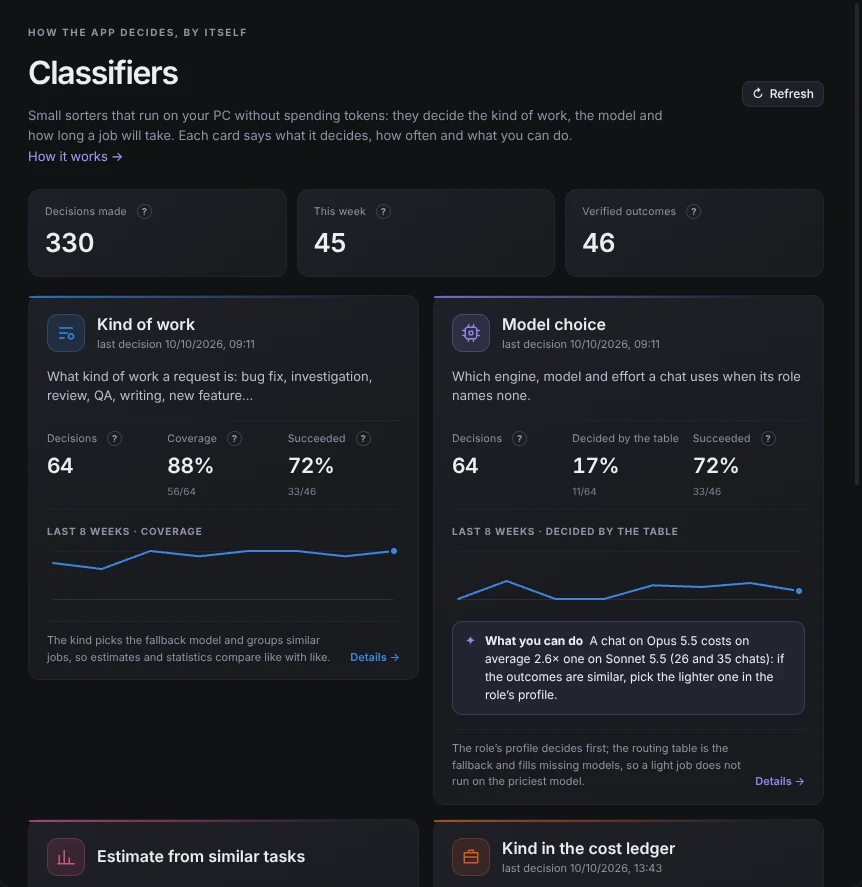
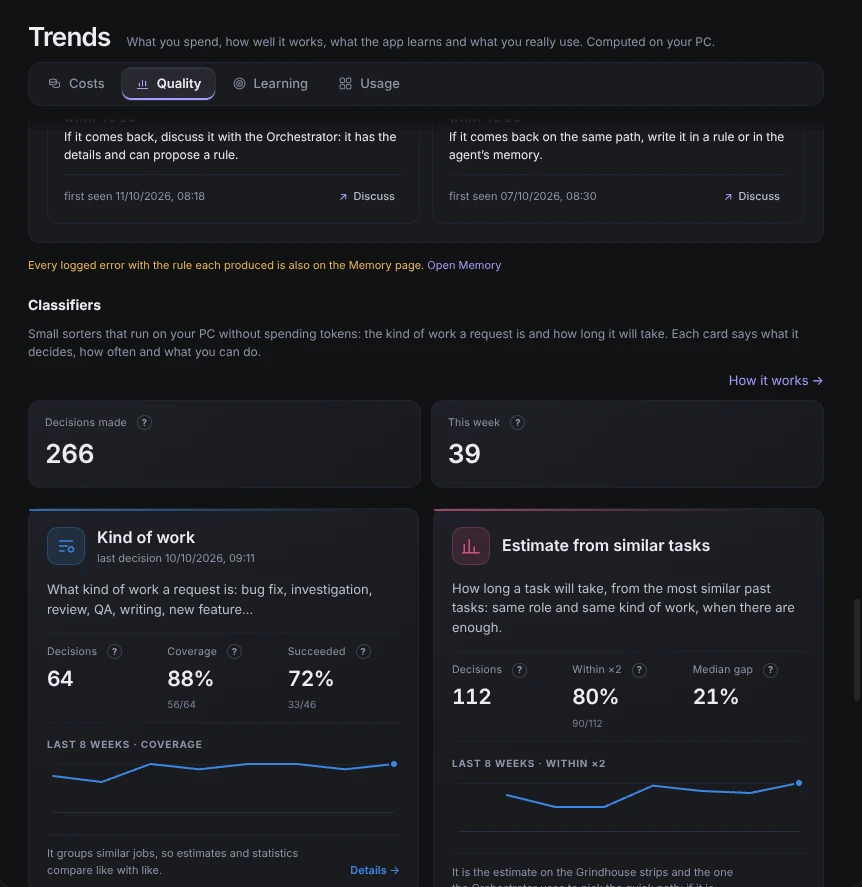
docs(readme): Trends, Settings, Learn v3 and Tasks, fresh screenshots, ADR index

diff --git a/test/shots/readme.spec.ts b/test/shots/readme.spec.ts
@@ -245,7 +245,7 @@ test('README showcase: Memoria, agent levels, Orchestrator and Flash, reactions'
   await page.keyboard.type('thanks!');
   await page.keyboard.press('Enter');
   const react = page.getByTestId('tile-orchestrator').locator('.msg-user .msg-react').last();
-  await expect(react).toHaveText('👍', { timeout: 15_000 });
+  await expect(react).toHaveText('🙏', { timeout: 15_000 });
   await page.waitForTimeout(500);
   // from the question before it (a written answer) down to the thanks with its reaction
   const users = page.getByTestId('tile-orchestrator').locator('.msg-user');
@@ -257,6 +257,9 @@ test('README showcase: Memoria, agent levels, Orchestrator and Flash, reactions'
 test('README screenshot: Connettori', async () => {
   // 8. Impostazioni → Connettori: the MCP servers the app gives the agents, as cards with state, tools and fixes (ADR 0086)
   await page.keyboard.press('Control+,');
+  // the Settings page as it opens: the sections on the left, search, the essentials first (ADR 0207)
+  await expect(page.getByTestId('settings-page')).toBeVisible({ timeout: 30_000 });
+  await save('settings');
   const hub = page.getByTestId('st-group-connectors').getByTestId('connectors-hub');
   await expect(hub.getByTestId('hub-server-github')).toBeVisible({ timeout: 30_000 });
   await hub.getByTestId('hub-servers').evaluate(el => el.scrollIntoView({ block: 'start' }));
@@ -286,7 +289,7 @@ test('README showcase: the Strategist\'s plan to approve in the questions window
   await save('plan', page.getByTestId('qwin'));
 });
 
-test('README showcase: voice, Log, recordings, classifiers, quality, learn, costs, the maintenance notice', async () => {
+test('README showcase: voice, Log, recordings, classifiers, quality, learn, costs, trends, the maintenance notice', async () => {
   test.setTimeout(180_000);
   // the plan's questions window is done: every request from here on is set aside, as a user busy elsewhere would
   await keepQuestionsAside(page);
@@ -349,7 +352,9 @@ test('README showcase: voice, Log, recordings, classifiers, quality, learn, cost
   await page.getByTestId('impara-lessons').locator('.ip-card').first().locator('.ip-card-open').click();
   await expect(page.getByTestId('impara-player')).toBeVisible({ timeout: 15_000 });
   await page.waitForTimeout(1500); // the diagram draws in
-  await save('learn', { ...column, height: 800 });
+  // the player as it is laid out now (the board, the piece and the Studio beside it), not the Log's column
+  const pb = (await page.getByTestId('impara-player').boundingBox())!;
+  await save('learn', { x: Math.round(pb.x), y: Math.round(pb.y), width: Math.round(pb.width), height: Math.round(Math.min(pb.height, H - pb.y)) });
 
   // Costs: where the money goes, from the recorded chats, no tokens spent to know it
   await goPage(page, 'costi');
@@ -357,6 +362,12 @@ test('README showcase: voice, Log, recordings, classifiers, quality, learn, cost
   await expect(costs).toBeVisible({ timeout: 30_000 });
   await expect(page.getByTestId('bx-loading')).toHaveCount(0, { timeout: 30_000 });
   await save('costs', await frameOf(costs));
+
+  // Trends › Usage: the local counter of the pages and actions really used, zero tokens (ADR 0202)
+  await page.getByTestId('an-tab-uso').click();
+  await expect(page.getByTestId('use-tab')).toBeVisible({ timeout: 30_000 });
+  await page.waitForTimeout(500);
+  await save('trends', await frameOf(page.getByTestId('use-tab')));
 
   // Maintenance: one click, then the celebrating notice over Memoria when it ends
   await page.getByTestId('nav-memoria').click();

diff --git a/src/main/demo.ts b/src/main/demo.ts
@@ -900,7 +900,9 @@ async function orchestratorReply(run: Run, text: string, d: DemoChats): Promise<
     return;
   }
   // a thanks or an ok needs no answer: one emoji, shown as a reaction (shared/reaction.ts)
-  if (/^(grazie|ok|perfetto|ottimo|thanks)\b[\s!.]*$/i.test(text.trim())) { await run.say('👍'); return; }
+  // a reaction that fits, not always 👍 (ADR 0209)
+  const thanks = /^(grazie|ok|perfetto|ottimo|thanks)\b[\s!.]*$/i.exec(text.trim());
+  if (thanks) { await run.say(/^(ok)$/i.test(thanks[1]!) ? '👌' : /^(perfetto|ottimo)$/i.test(thanks[1]!) ? '🎉' : '🙏'); return; }
   const all = d.list().filter(c => !c.isOrchestrator);
   const waiting = all.filter(c => c.state === 'waiting' || c.pending > 0).map(c => c.title);
   const working = all.filter(c => c.state === 'running' || c.state === 'starting').map(c => c.title);

diff --git a/README.md b/README.md
@@ -61,17 +61,20 @@ Herald) that split it into child chats you can watch and report back.
 
 The **Orchestrator** is where work starts: it plans, hands each job to the right role, answers their mail and tells you
 what is waiting. **Flash**, the tab next to it, is the "btw": a quick read-only agent on its own model that sees the
-Orchestrator's conversation and answers side questions in seconds, without touching it. When a question turns into
-real work, "Make it a job" drafts it for the Orchestrator.
+Orchestrator's conversation and answers side questions in seconds, without touching it. Use it to plan, research or
+ask for advice; when the talk turns into real work, "Make it a job" has Flash write a proper brief from the whole
+conversation (goal, context, what to do, constraints, done when) and drops it in the Orchestrator's input, unsent.
 
 <p align="center"><img src="docs/screenshots/orchestrator-flash.webp" alt="The Orchestrator's column with its subagents and a decision, and Flash beside it" width="760"></p>
 
 It also knows the app inside out. "Where is the spending limit?", "turn notifications off", "give the Scout the GitHub
-connector": it reads the app's live map and changes the setting for you, with an Undo. Secrets stay yours.
+connector", "add this MCP server": it reads the app's live map and changes the setting for you, with an Undo. Secrets
+stay yours, and a server it adds stays off until you read its command and click **Activate**.
 
 ### Plan mode
 
-Tick **Plan** and a Strategist takes the job: it asks you a few questions first, then proposes a short plan, each step
+Tick **Plan** and a Strategist takes the job: it reads the code, asks you at least three real questions (goal, scope,
+constraints, what "done" means; say "enough questions" to stop it), then proposes a short plan, each step
 with the role that will do it. You approve it in the questions window, and only then does it start the other agents,
 as the tree of thread cards at the top of this page, its steps ticking off on its strip.
 
@@ -81,14 +84,14 @@ as the tree of thread cards at the top of this page, its steps ticking off on it
 
 Everything the agents learn lands as a card: a fact, a skill, a rule, a setting. Swipe right to keep it, left to drop
 it (or ✓ / ✕, or the arrow keys, with Z to undo), and every card says who proposed it, in which chat and when. Behind
-the deck, one hub with tabs (Approved, Skills, Rules, Scripts & Queries, Ideas, Files, Learning, Statistics) under a
+the deck, one hub with tabs (Approved, Skills, Rules, Scripts & Queries, Ideas, Files, Statistics) under a
 header whose counters move while the agents work.
 
 <p align="center"><img src="docs/screenshots/memory.webp" alt="Memory: the live header with its counters, the tabs, and a proposal card swiped toward APPROVE" width="560"></p>
 
 ### Quality you can measure, a brain that tidies itself
 
-**Quality** counts the AI's mistakes instead of its compliments: errors you had to catch yourself per 100 turns, rules
+**Quality**, a tab of **Trends**, counts the AI's mistakes instead of its compliments: errors you had to catch yourself per 100 turns, rules
 that actually stopped their error (or didn't, within 14 days), PRs held by a failed build or QA, bugs that came back.
 Every number says where it comes from and how many cases it covers, and "Discuss" hands it to the Orchestrator.
 
@@ -105,16 +108,17 @@ bugs. When it found something you get a little party, and every change has a rea
 
 Every role earns its level from verified outcomes only, never from vibes: a delegated job counts when its parent's
 work checks out, and the Sentinel, the one who judges, is judged by what happens next. Each card shows the level and a
-performance %.
+performance %. Reviews are cheap: free signals first, then a sample of finished runs reviewed together in one quiet
+session on the first idle moment of the night (or after you turn the PC back on), never shown on the Grindhouse.
 
 <p align="center"><img src="docs/screenshots/agent-levels.webp" alt="Agent cards for the Orchestrator, the Artisan and the Sentinel, each with its level, verified successes and performance percentage" width="720"></p>
 
 ### Emoji instead of essays
 
-Say "thanks" and you get a 👍 on your message, not a paragraph of pleasantries. Any agent with nothing to add reacts
-instead of replying, on every engine, so those tokens go to work instead.
+Say "thanks" and you get a 🙏, a 🎉 or a 🫡 on your message (whatever fits), not a paragraph of pleasantries. Any agent
+with nothing to add reacts instead of replying, on every engine, so those tokens go to work instead.
 
-<p align="center"><img src="docs/screenshots/reactions.webp" alt="A thanks to the Orchestrator answered with a thumbs-up reaction under the message" width="520"></p>
+<p align="center"><img src="docs/screenshots/reactions.webp" alt="A thanks to the Orchestrator answered with a 🙏 reaction under the message" width="520"></p>
 
 ### Talk to it
 
@@ -156,28 +160,41 @@ Notes, chats, agents and tools as a 3D map you can spin, glowing along the links
 
 <p align="center"><img src="docs/screenshots/brain-map.webp" alt="The 3D brain map: notes, chats, agents and tools linked, the live ones glowing" width="640"></p>
 
+### Trends: the numbers in one place
+
+**Trends** puts the statistics on one page with tabs: **Costs** (where the money went, which chat's context is getting
+heavy), **Quality** (with the classifiers), **Learning** and **Usage**. Usage counts which pages and actions you really
+open, on your PC only, so deciding what to keep rests on numbers, not guesses.
+
+<p align="center"><img src="docs/screenshots/trends.webp" alt="Trends, the Usage tab: the pages and actions opened in the last 14 days, most used first" width="640"></p>
+
 ### Classifiers: small decisions, zero tokens
 
-Not everything needs a model. Small sorters on your PC decide the kind of work, the model a chat runs on, how long and
-how much a job will probably take, and which mail the Orchestrator reads now or later. The Classifiers page shows each
-one as a card: how many decisions, how often it got them right, how many of those chats succeeded (only verified ones
-count), the last 8 weeks, and what you could change.
+Not everything needs a model. Small sorters on your PC decide the kind of work, how long and how much a job will
+probably take, and which mail the Orchestrator reads now or later; the model itself is simply the one on the agent's
+card. The Classifiers section of Quality shows each sorter as a card: how many decisions, how often it got them right,
+how many of those chats succeeded (only verified ones count), the last 8 weeks, and what you could change.
 
-<p align="center"><img src="docs/screenshots/classifiers.webp" alt="The Classifiers page: decisions made, verified outcomes, and the Kind of work and Model choice cards with their 8-week trend" width="640"></p>
+<p align="center"><img src="docs/screenshots/classifiers.webp" alt="The Classifiers section: decisions made, verified outcomes, and the Kind of work card with its 8-week trend" width="640"></p>
 
 ### Learn what your agents built
 
-The agents wrote the code; now you want to understand it. **Learn** takes one of your PRs, a technical concept or a
-text you paste, and explains it piece by piece on a blackboard whose diagram grows as you go, out loud if you like.
-"Explain it better", "Give me an example" or "Show me the code" when you're lost; a quick check to see if it stuck; at
-the end you explain it back. Every lesson is saved and reopens where you left it.
+The agents wrote the code; now you want to understand it. **Learn** has one field: paste a PR link, a concept or a long
+text, drop in files or folders, and it explains it piece by piece on a blackboard: flowcharts, sequence and state
+diagrams, timelines, mind maps, highlighted code, formulas and charts that grow as you go, out loud if you like. Your
+files can drive a web search for the public standards and libraries they use (only filtered public terms leave your PC,
+shown as chips). "Explain it better", "Give me an example" or "Show me the code" when you're lost; quizzes of several
+kinds (choice, true or false, complete the code, put in order) to see if it stuck; a score that tells you honestly what
+you still remember; at the end you explain it back. A quality check rewrites weak pieces before you see them, and every
+lesson is saved and reopens where you left it.
 
 <p align="center"><img src="docs/screenshots/learn.webp" alt="A Learn lesson about a PR: the blackboard diagram, piece 2 of 3, and the buttons Got it, Explain it better, Give me an example, Show me the code" width="640"></p>
 
 ### Nothing happens off the record
 
 The **Log** shows everything the app did, live: who chose whom, what it cost, which answer was a duplicate. **Costs**
-tells you where the money went and which chat's context is getting heavy. Both read local data and spend zero tokens.
+in Trends tells you where the money went and which chat's context is getting heavy. Both read local data and spend
+zero tokens.
 
 <p align="center">
   <img src="docs/screenshots/log.webp" alt="The Log page: today's events, tasks, flags and the chain of a delegated task" width="420">
@@ -201,7 +218,13 @@ the Orchestrator to explain it your way.
   verdict after.
 - **A browser of your own.** The Browser page is your everyday browser, with bookmarks, sessions and passwords the
   agents never see; lend them one tab when you want.
-- **Connectors.** MCP servers in Settings, switched on per role.
+- **Settings that find themselves.** One page with a section list, search that highlights the matching row, instant
+  save with Undo.
+- **Connectors in one paste.** Paste a README's JSON, a command line or a URL and the MCP server is ready; switch it on
+  per role. The Orchestrator can set one up for you too.
+- **Tasks.** The Task page lists your Azure DevOps work items and PRs, with builds, votes and QA results.
+- **Copy any file.** The copy icon in the file viewer puts the file on the clipboard: its text, the image, or the file
+  itself.
 - **A brain in plain Markdown.** Notes, rules, skills and scripts live in a folder you own, readable without the app.
 - **Your own logins.** It drives the official CLIs with your account and never touches their settings. The UI speaks
   Italian, English and German.

diff --git a/docs/adr/README.md b/docs/adr/README.md
@@ -206,3 +206,13 @@ and 0070 (Battito) were kept outside this repo: references to ADR 0069 have no f
 - [0198](0198-developer-speed-typecheck-e2e-baseline-agents-map.md) Developer speed: TypeScript 7 typecheck, an e2e baseline of known reds, AGENTS.md as a map — accepted
 - [0199](0199-agent-runs-in-sqlite.md) The agent runs move from agent-runs.json to SQLite (userData/app.db) — accepted
 - [0200](0200-split-the-shared-files-by-area.md) Split the four shared files by area; ChatManager as a chain of layer classes — accepted
+- [0201](0201-cuts-battito-compare-cloud-suggest-veloce.md) Cuts: Battito, model comparison, cloud agents, the composer's model suggestions, Veloce — accepted
+- [0202](0202-andamento-and-usage-counter.md) «Andamento»: the four statistics pages in one, and a local usage counter — accepted
+- [0203](0203-nightly-sampled-reviews.md) Agent levels: a nightly sample of reviews under a daily cap — accepted
+- [0204](0204-impara-one-field-quiz-kinds-and-score.md) Impara: one start field, more question kinds with instant feedback, an honest score — accepted
+- [0205](0205-impara-studio-visuals-and-quality.md) Impara: the «Studio» column, a visual for each piece, and a quality gate — accepted
+- [0206](0206-impara-file-driven-web-research.md) Impara: web research driven by the user's files, through a deterministic filter — accepted
+- [0207](0207-settings-redesign-and-easy-mcp.md) Settings redesign, MCP servers in one paste, the Orchestrator configures everything — accepted
+- [0208](0208-docs-keep-up-with-the-code.md) Docs keep up with the code: tool catalog, Guida coverage, README freshness — accepted
+- [0209](0209-strategist-asks-more-and-varied-reactions.md) The Strategist asks at least three questions; reactions fit the message; Flash writes the brief — accepted
+- [0210](0210-remove-model-routing.md) Remove the model-routing classifier: every agent runs on its own card's model — accepted
